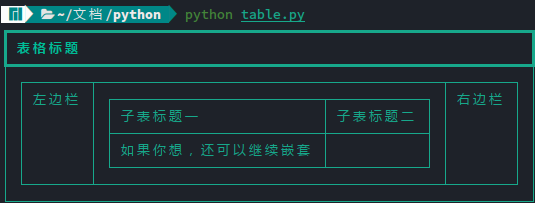
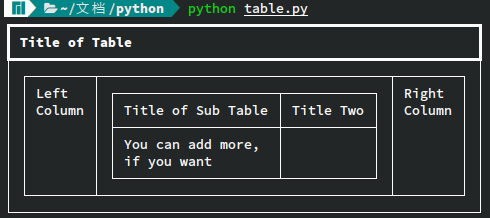
docs: update

Changed region(s): [[0.0, 0.0, 1.0, 1.0]]

diff --git a/docs/CODES/python-rich-table.md b/docs/CODES/python-rich-table.md
@@ -67,18 +67,21 @@ python table.py
 
 好了，现在我可以非常方便地将这个表格的内容复制到文档中：
 
-```
-┏━━━━━━━━━━━━━━━━━━━━━━━━━━━━━━━━━━━━━━━━━━━━━━━━━━━━━━━━━━━━━━━━━┓
-┃ 表格标题                                                        ┃
-┡━━━━━━━━━━━━━━━━━━━━━━━━━━━━━━━━━━━━━━━━━━━━━━━━━━━━━━━━━━━━━━━━━┩
-│ ┌────────┬───────────────────────────────────────────┬────────┐ │
-│ │ 左边栏 │ ┌──────────────────────────┬────────────┐ │ 右边栏 │ │
-│ │        │ │ 子表标题一               │ 子表标题二 │ │        │ │
-│ │        │ ├──────────────────────────┼────────────┤ │        │ │
-│ │        │ │ 如果你想，还可以继续嵌套 │            │ │        │ │
-│ │        │ └──────────────────────────┴────────────┘ │        │ │
-│ └────────┴───────────────────────────────────────────┴────────┘ │
-└─────────────────────────────────────────────────────────────────┘
+```vim
+┏━━━━━━━━━━━━━━━━━━━━━━━━━━━━━━━━━━━━━━━━━━━━━━━━━━━━━━━━━━┓
+┃ Title of Table                                           ┃
+┡━━━━━━━━━━━━━━━━━━━━━━━━━━━━━━━━━━━━━━━━━━━━━━━━━━━━━━━━━━┩
+│ ┌────────┬────────────────────────────────────┬────────┐ │
+│ │ Left   │ ┌────────────────────┬───────────┐ │ Right  │ │
+│ │ Column │ │ Title of Sub Table │ Title Two │ │ Column │ │
+│ │        │ ├────────────────────┼───────────┤ │        │ │
+│ │        │ │ You can add more,  │           │ │        │ │
+│ │        │ │ if you want        │           │ │        │ │
+│ │        │ └────────────────────┴───────────┘ │        │ │
+│ └────────┴────────────────────────────────────┴────────┘ │
+└──────────────────────────────────────────────────────────┘
 ```
 
 保留 `.py` 的源文件，后面修改时也比较容易。
+
+目前发现的唯一不足，就是它会受到 markdown 显示工具/网页使用的字体影响。如果未设置合适的等宽字体，显示效果就会与预期不太一样。
